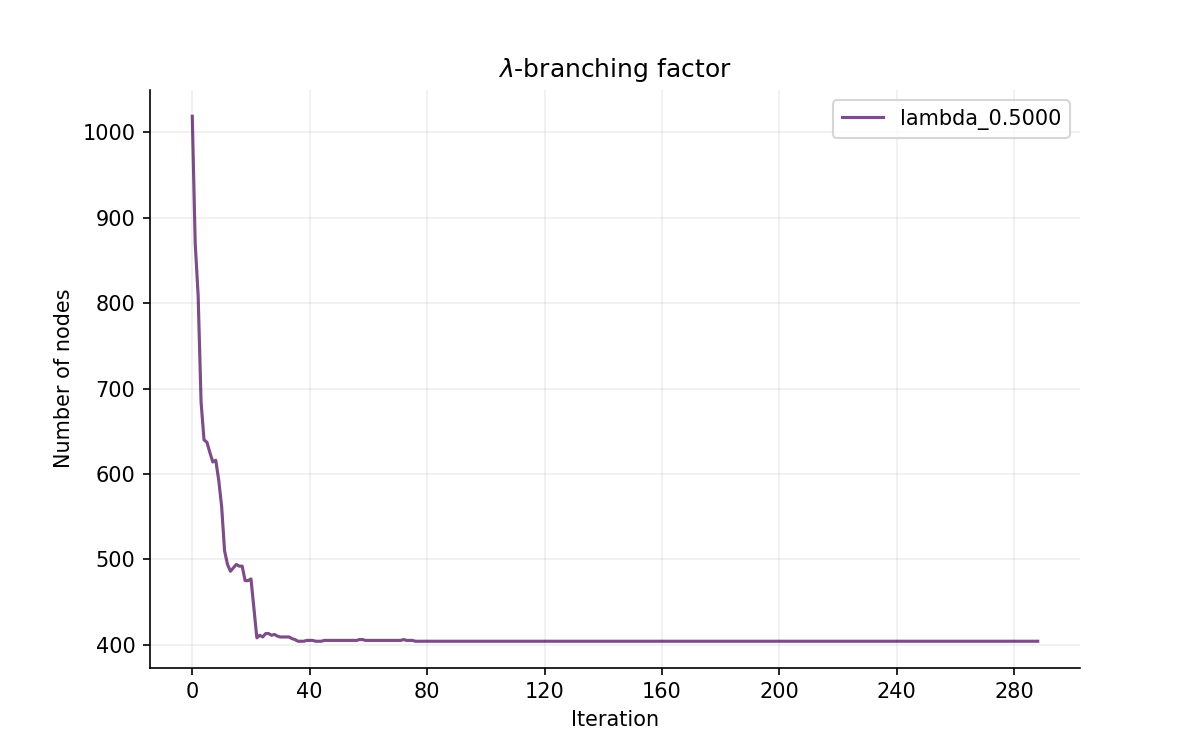
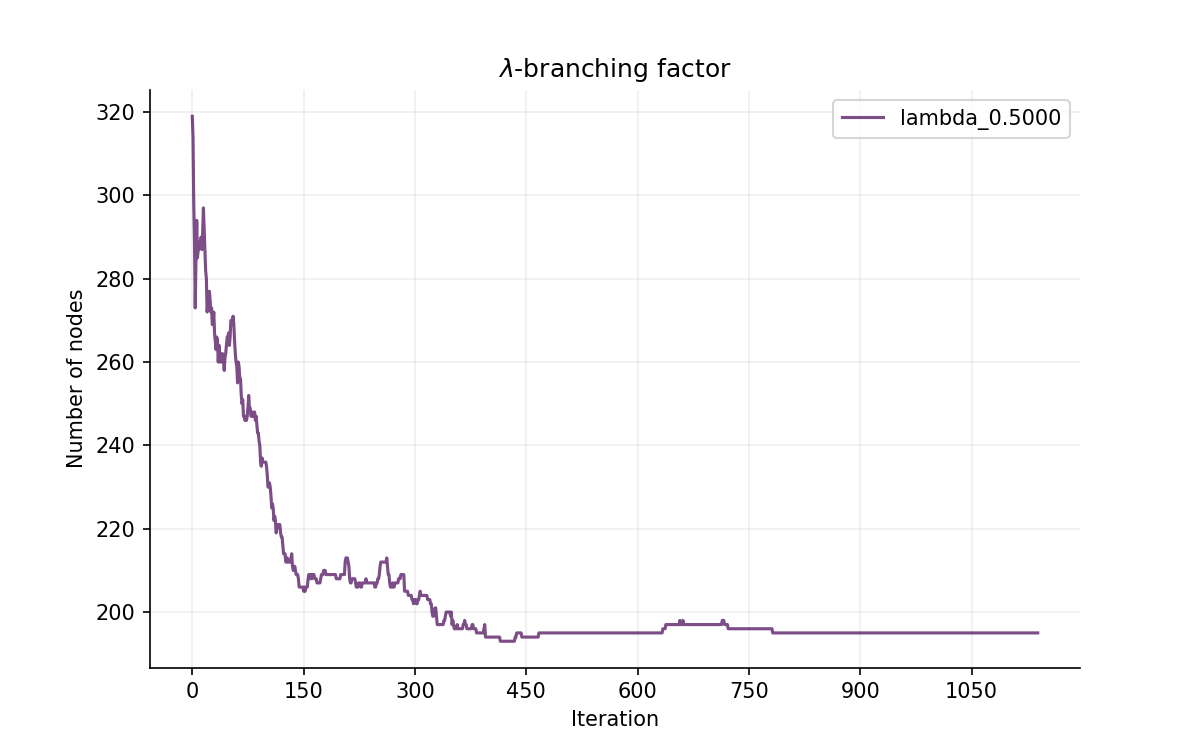
Fixed problems with the compilation of Cython modules.

diff --git a/examples/sd_BoA.py b/examples/sd_BoA.py
@@ -37,9 +37,9 @@ class MaxGroupDiff(antco.optim.ObjectiveFunction):
 
 
 # Problem definition
-NODES = 120
+NODES = 101
 EDGES = 800
-OPTIMAL_PATH_LENGTH = 15
+OPTIMAL_PATH_LENGTH = 17
 NOISE = 5
 MIN_NOISE_LENGTH = 10
 MAX_NOISE_LENGTH = 20
@@ -54,17 +54,19 @@ problem = generate_problem(
 
 # Algorithm parameters
 n_ants = 100
-elite = 1
+elite = 40
 graph_type = 'undirected'
-iterations = 500
-tol = 250
-evaporation = 0.05
+iterations = 2_500
+tol = 500
+evaporation = 0.01 * 2
 alpha = 1.0
 beta = 1.0
-pheromone_init = 3.0
+pheromone_init = 5.0
 seed = 1997
-n_jobs = 4
-pheromone_update = {'strategy': 'mmas', 'limits': (0.1, 3.0), 'graph_type': graph_type}
+n_jobs = 8
+pheromone_update = {"strategy": "as", "weight": 0.00125 * 2, "graph_type": graph_type}
+Q = 0.2
+R = 0.2
 accessory_node = True
 path_limits = (0, OPTIMAL_PATH_LENGTH+1 if accessory_node else OPTIMAL_PATH_LENGTH)
 
@@ -73,21 +75,21 @@ obj_function = MaxGroupDiff(problem['adj_matrix'], problem['Gmax'] - problem['Gm
 
 # Create ACO instance
 colony = antco.ACO(
-    n_ants=n_ants, graph=problem['adj_matrix'], heuristic=problem['Gmax'] - problem['Gmin'],
+    n_ants=n_ants, graph=problem['adj_matrix'], heuristic=None,
     objective=obj_function, iterations=iterations, graph_type=graph_type, evaporation=evaporation,
     alpha=alpha, beta=beta, pheromone_init=pheromone_init, path_limits=path_limits,
-    pheromone_update=pheromone_update, n_jobs=n_jobs, seed=seed, tol=tol,
-    scaleScores=antco.tools.MinMaxScaler(max_val=2.0, max_historic=True))
+    pheromone_update=pheromone_update, n_jobs=n_jobs, seed=seed, tol=tol, Q=Q, R=R,
+    scaleScores=antco.tools.MinMaxScaler(max_val=1.0, max_historic=True))
 
 # Pre-process ACO instance
 antco.preproc.apply(colony, accessory_node=True)
-antco.preproc.apply(colony, scale_heuristic={'min_val': 0.0, 'max_val': 1.0})
+#antco.preproc.apply(colony, scale_heuristic={'min_val': 0.0, 'max_val': 1.0})
 
 print('\nACO', colony)
 
 # Run algorithm
 start = time.time()
-report = antco.algorithm.bagOfAnts(colony, bag_size=elite, out_of_bag_size=40)
+report = antco.algorithm.bagOfAnts(colony, bag_size=elite)
 end = time.time()
 print('\nTotal time: %.5f' % (end - start))
 
@@ -100,14 +102,10 @@ optimal_solution_score = objective(optimal_solution, problem['adj_matrix'], prob
 print('Solution found (%.4f): %r\nOptim solution (%.4f): %r' %
       (solution_score, solution, optimal_solution_score, optimal_solution))
 
-antco.graphics.convergence(
-    report, title='\nSolution %.4f (Optimal %.4f)\n' % (solution_score, optimal_solution_score))
-plt.show()
-"""
+
 # Save convergence results
 antco.graphics.branchingFactor(report, save_plot='./convergence/sd_BoA_BF.png')
 antco.graphics.convergence(
     report, title='\nSolution %.4f (Optimal %.4f)\n' % (solution_score, optimal_solution_score),
     save_plot='./convergence/sd_BoA_Convergence.png')
 plt.show()
-"""

diff --git a/setup.py b/setup.py
@@ -9,12 +9,12 @@ with open("README.md", 'r') as f:
 
 # python setup.py build_ext -i
 setup(name='antco',
-      version='0.1.2',
+      version='0.1.3',
       license='BSD3',
       description='Ant Colony Optimization framework',
       author='Fernando García Gutiérrez',
       author_email='fegarc05@ucm.es',
-      url=None,                                 # PENDING
+      url='https://github.com/FernandoGaGu/Ant-Colony-Optimisation/',                           
       download_url='https://github.com/FernandoGaGu/Ant-Colony-Optimisation/archive/refs/tags/0.1.tar.gz',
       install_requires=[
                 'numpy', 
@@ -27,7 +27,12 @@ setup(name='antco',
             ],
       keywords=['Optimisation', 'Ant Colony Optimisation', 'Metaheuristic', 'Algorithms'],
       packages=find_packages(),
-      ext_modules=cythonize(['**/*.pyx']),
+      ext_modules=cythonize([
+                'antco/c_metrics.pyx', 
+                'antco/c_ntools.pyx',
+                'antco/c_pheromone.pyx',
+                'antco/c_policy.pyx',
+                'antco/c_utils.pyx']),
       include_dirs=[numpy.get_include()],
       classifiers=[
           'Development Status :: 4 - Beta',
